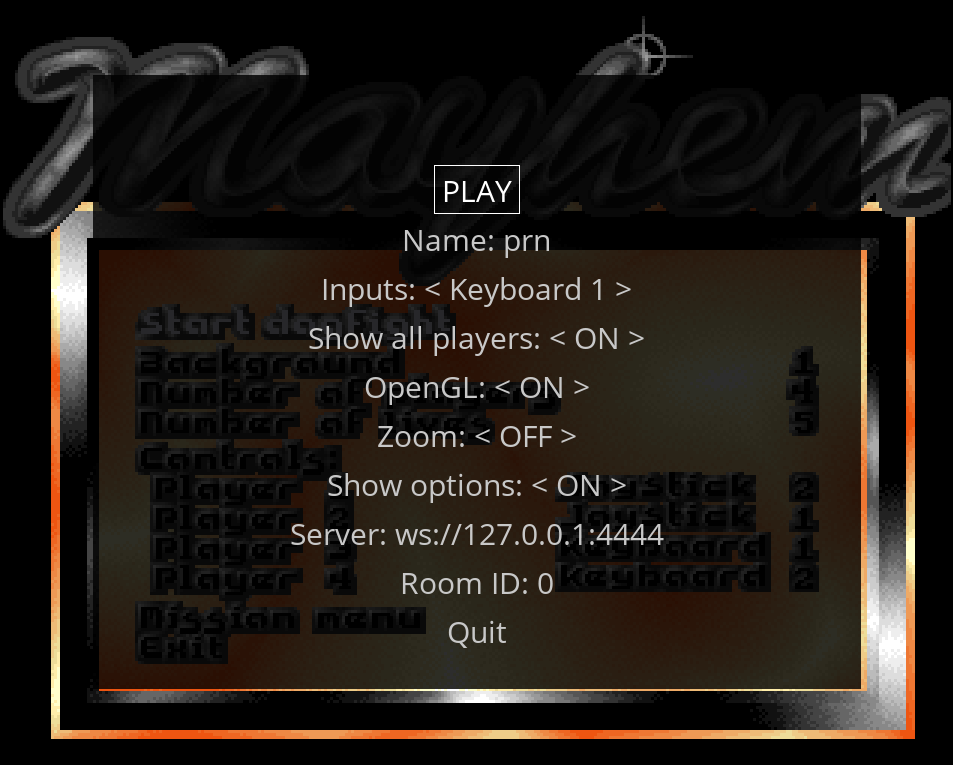
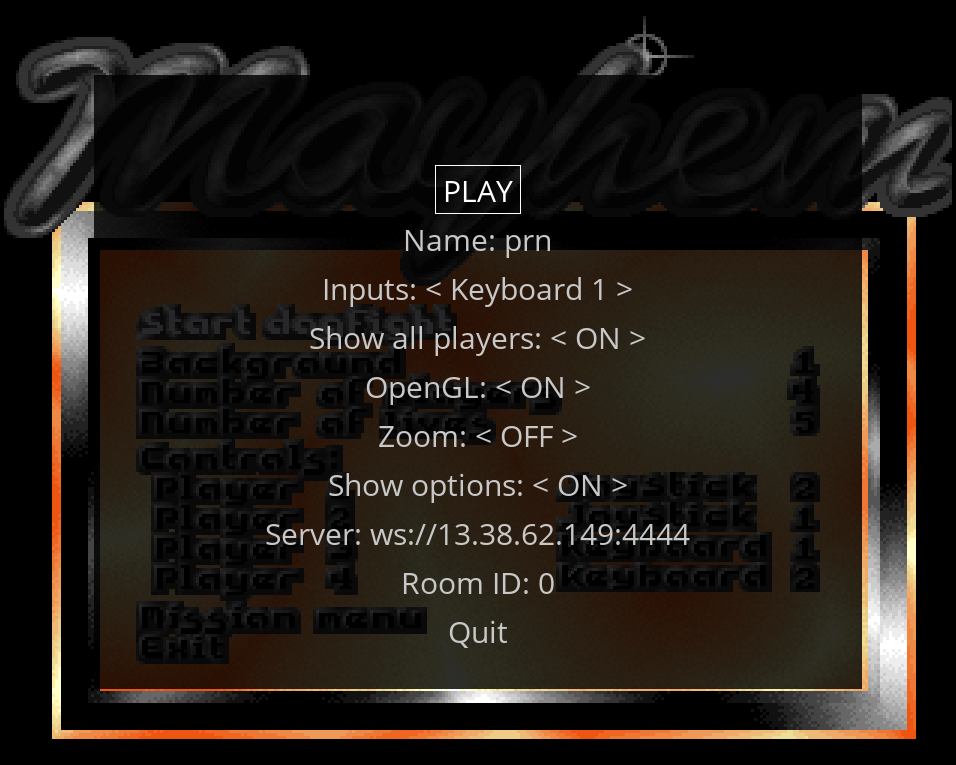
Public game server url

diff --git a/README.md b/README.md
@@ -1,8 +1,16 @@
 # mayhem-py
 
-Python version of the classic Amiga game Mayhem, with support for online gaming (see bellow).
+Python version of the classic Amiga game Mayhem with support for online gaming, try it on ws://13.38.62.149:4444
 
-Try the HTML version (local gaming only) on: https://devpack.github.io/mayhem-html5 or https://devpack.itch.io/mayhem
+HTML version (local gaming only) on: https://devpack.github.io/mayhem-html5 or https://devpack.itch.io/mayhem
+
+![Menu](https://github.com/devpack/mayhem-py/blob/main/assets/wiki/menu.png)
+
+![Online_Game](https://github.com/devpack/mayhem-py/blob/main/assets/wiki/online_game.png)
+
+Room ID: any number (or str). 0 has a special meaning: find the first room where there is space left (or creates one if none found). Any room has a size of 4 players.
+
+Public GameServer: ws://13.38.62.149:4444
 
 ----
 
@@ -25,14 +33,6 @@ python3 server.py
 ```
 
 Local server url example: ws://127.0.0.1:4444
-
-Room ID: any number (or str). 0 has a special meaning: find the first room where there is space left (or creates one if none found). Any room has a size of 4 players.
-
-![Menu](https://github.com/devpack/mayhem-py/blob/main/assets/wiki/menu.png)
-
-![Online_Game](https://github.com/devpack/mayhem-py/blob/main/assets/wiki/online_game.png)
-
-TODO: Host a public facing GameServer.
 
 Launch the game, local mode (Deprecated but still working):
 
